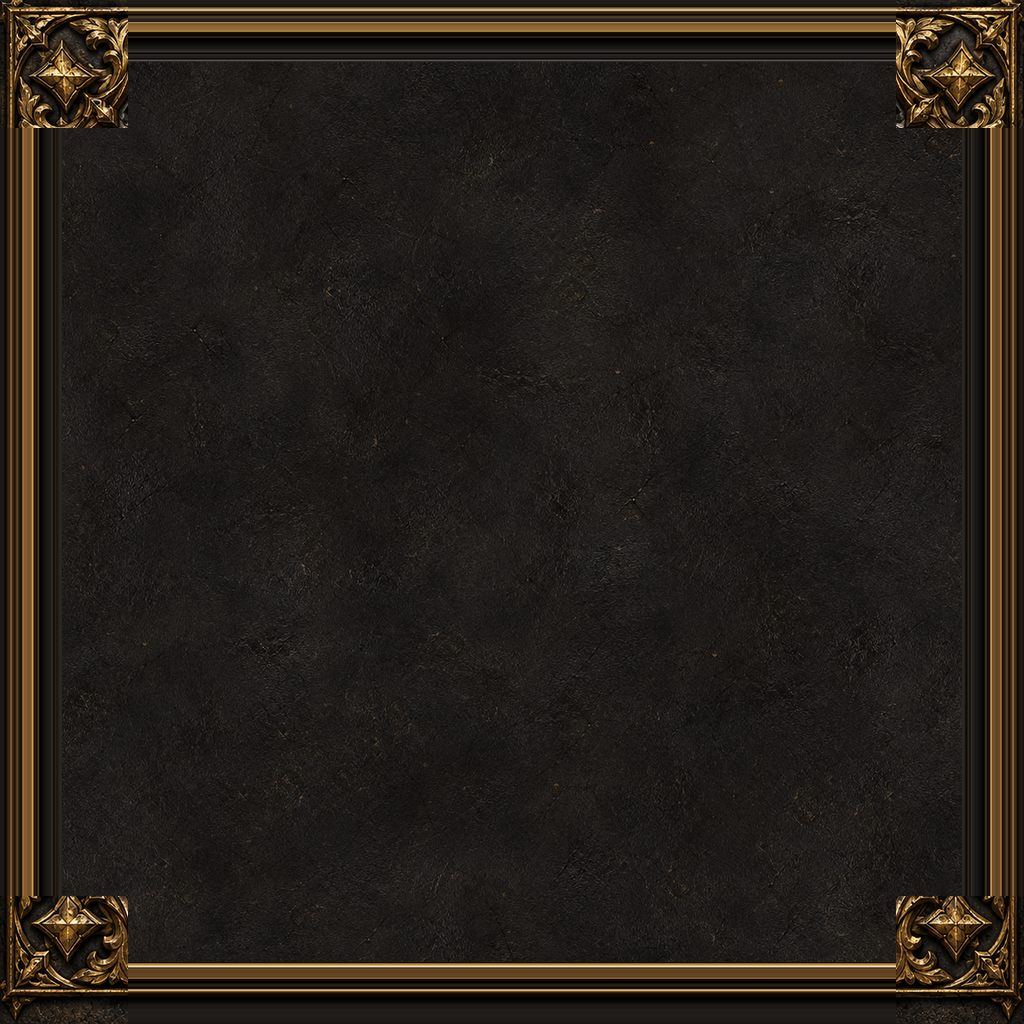
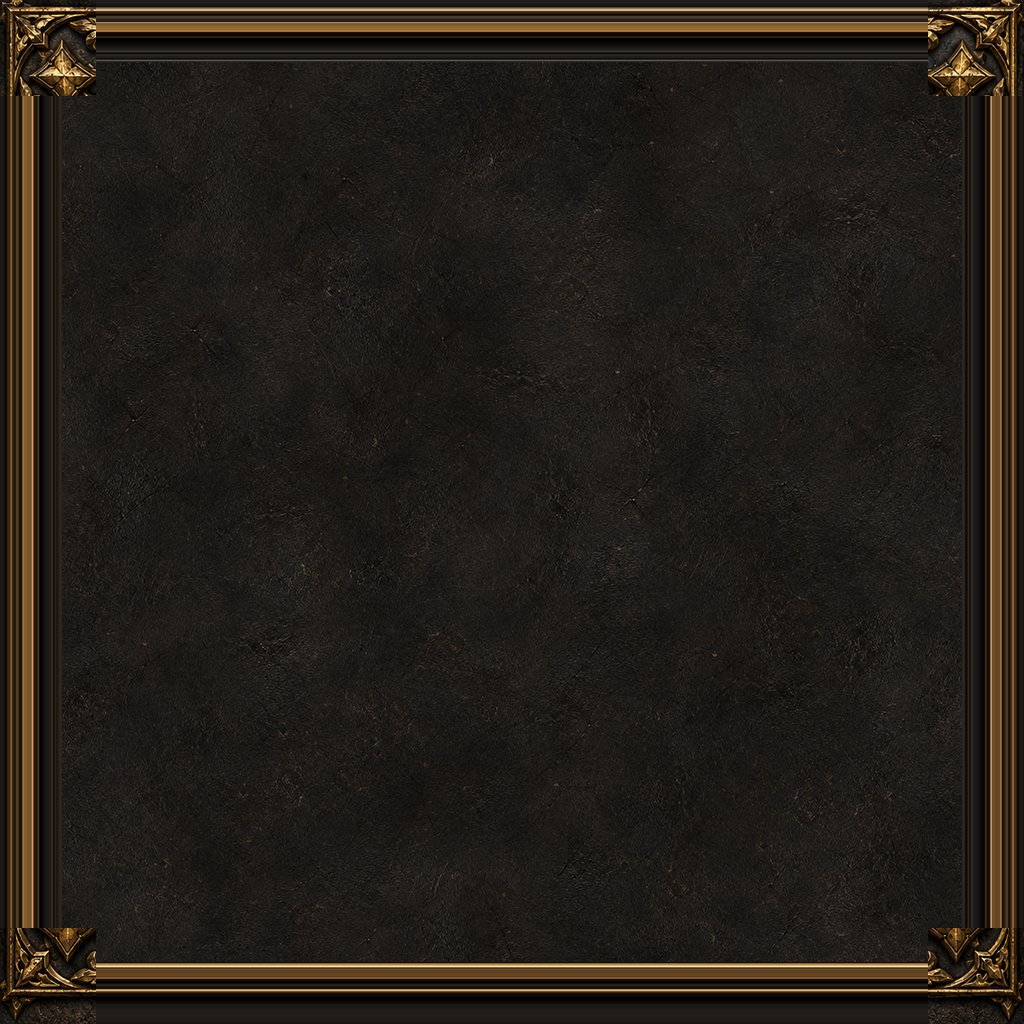
ui: restore plate ornament, end-cap fix, layered studs and crest, text A/B (#49 review)
- Plate corner cell matches the HUD margin (24 logical); the filigree no longer spills and stretches along the bar ends.
- Recessed bay margin fixed for the 192 px button plate.
- UiTheme.draw_stud and draw_crest: layout-placed ornament layers. Bar corners and one stud per hotbar divider; crest at bar centre.
- Text A/B at 200% recorded in docs/screenshots/ui-texture/text-ab; baseline font import kept.
- Dev capture: --uitex-size and --uitex-ui options; hover made robust.

diff --git a/tools/make_panel_art.py b/tools/make_panel_art.py
@@ -18,7 +18,7 @@ SOURCE = os.path.join(ROOT, "assets", "ui", "ornate", "metal.png")
 TARGET = os.path.join(ROOT, "assets", "ui", "ornate", "metal_panel.png")
 
 SIZE = 1024
-CORNER = 128          # nine-slice margin in source pixels (32 logical px at 4 px per logical px)
+CORNER = 96           # corner cell in source px (24 logical px at 4 px per logical px): the ornament must fit it, or it stretches along the edge
 RAIL = 62             # rows/columns of the gold rail and groove kept from the source edge
 RAIL_COPY = (300, 386)  # stud-free stretch of the same rail, copied over the stud
 QUIET = (340, 684)    # the centre of the source plate: quiet leather with faint cracks

diff --git a/docs/UI_THEME.md b/docs/UI_THEME.md
@@ -34,14 +34,27 @@ The game remains grounded and weathered, as required by ART_DIRECTION.md.
   a uniform profile from a stud-free stretch, and the centre is a seamless texture-bombed leather
   fill with large-scale grime. Tooltips use the metal plate (`tooltip_box`), because the short button
   plate streaked when stretched into tall cards. Buttons keep `button.png`, stretched.
+- The plate's nine-slice corner cell is 24 logical px (96 source px), the same margin HUD plates
+  use. A larger margin let the corner filigree spill past its cell and stretch along the bar edge.
+- Ornament layers, placed by layout and never stretched: `UiTheme.draw_stud` (bar corners and
+  one stud per hotbar divider) and `UiTheme.draw_crest` (bar centre). Lane M's no-repeat rail and
+  crest set can replace the art behind these helpers. Brackets around the hotbar and left button
+  groups are not built yet.
 - Label, Button, CheckBox and TooltipLabel share one 1 px drop shadow (`UiTheme._build`).
-- Measured at 1080p: the character window is not scaled (fit factor 1.0), so text is rasterised
-  at native size. The legibility gap is contrast on thin serif text, not resampling. Font import
-  (hinting, MSDF) was not A/B tested; that remains open.
-- Verified at 1080p on screen 1 only (`--only=uitexture`): bottom bar, character window, item
-  tooltip and party frames, before and after, in `docs/screenshots/ui-texture/`.
-- Known gaps: 1280x720, 1600x900 and 2560x1440 and the interface-scale matrix are postponed by the
-  owner. The plate is plainer than the previous knotwork edges; the owner has not yet judged richness.
+- Text A/B at 200% (`docs/screenshots/ui-texture/text-ab/`), measured by mean edge gradient on
+  the character title: baseline 21.96; MSDF on both fonts 27.19 (edges stronger but glyphs look
+  heavier); light hinting 21.96 (no measurable change); no hinting 21.49 (softer). Kept the
+  baseline import; MSDF is a global font change for the owner to judge.
+- `Control.scale`: at 1080p the window is not scaled (fit factor 1.0). At 720p with UI 1.5 it is
+  shrunk, and the 200% crop shows smaller but not blurred text. A re-layout at 1.0 was not built.
+- Verified at 1080p on screen 1 only (`--only=uitexture`): bottom bar and both ends, character
+  window, item tooltip and party frames, before and after, in `docs/screenshots/ui-texture/`.
+- The seven `--only=theme` headless failures (Tough Dragon Helm roll and hover-card fit at the
+  64x64 headless viewport) reproduce with the original `UiTheme` in this checkout. CI never runs
+  `--only=theme` (see `.github/workflows/selftest.yml`), so there is no CI result to compare.
+- Known gaps: 1280x720, 1600x900 and 2560x1440 and the interface-scale matrix are not run: the
+  owner's latest instruction is 1080p only, with higher resolutions later. The owner has not yet
+  judged richness.
 
 Do not restore the removed resource strip, render fake consumables, bake gameplay values
 into artwork, or introduce another independent theme system. Ask the owner when uncertain.
